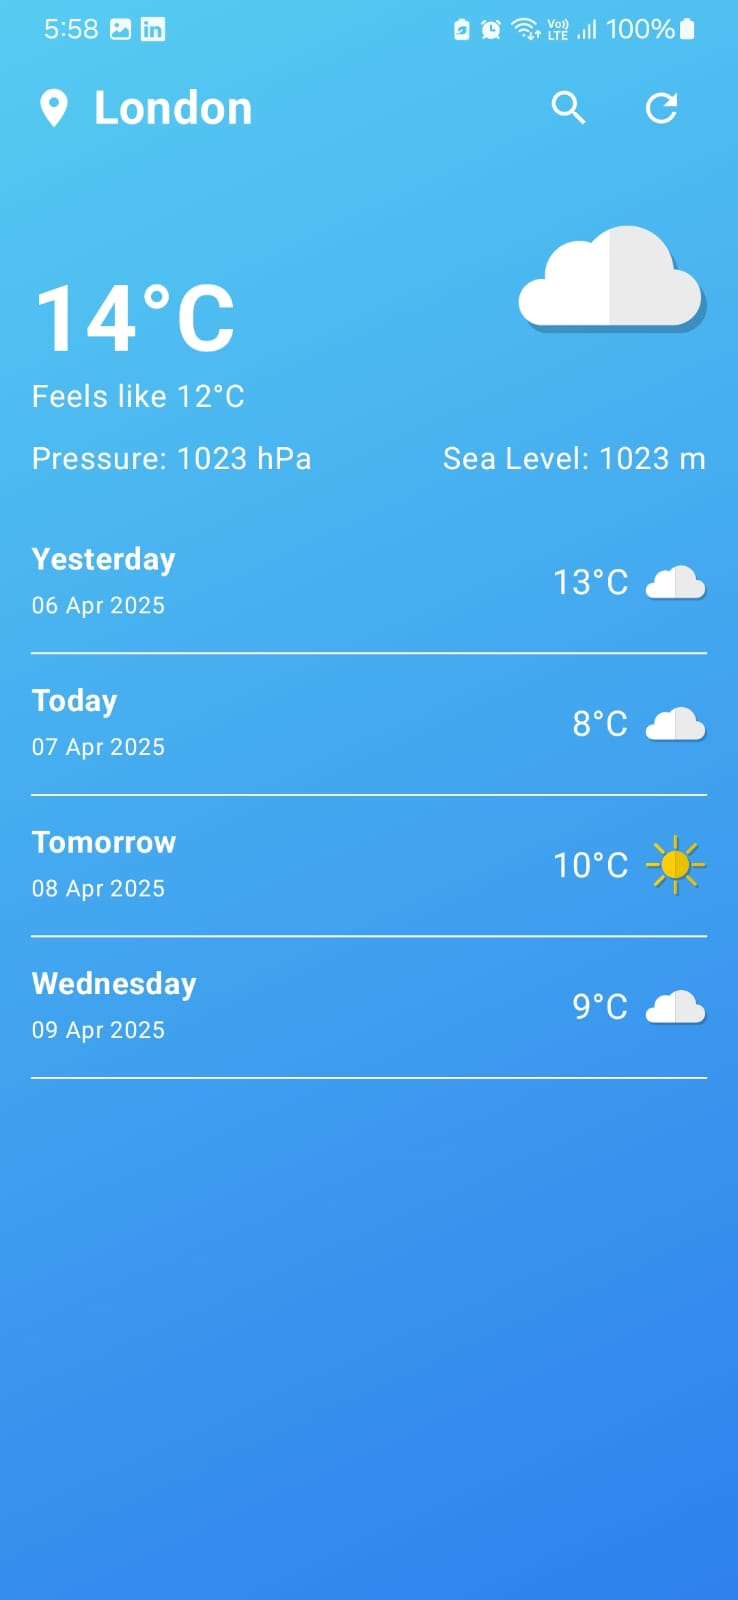
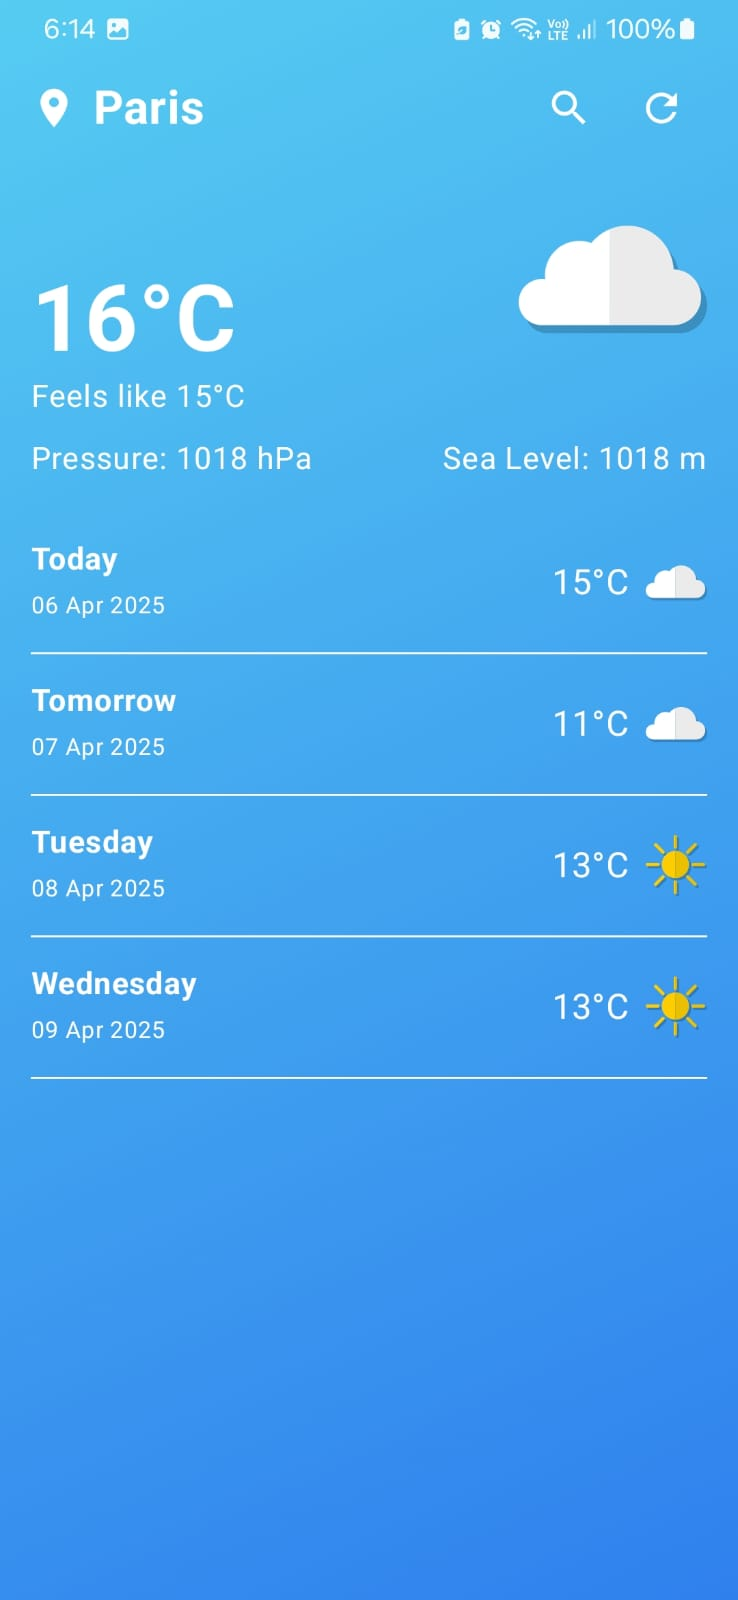
images updated

diff --git a/app/src/main/java/com/weather/skycast/home/data/mapper/WeatherDtoMapper.kt b/app/src/main/java/com/weather/skycast/home/data/mapper/WeatherDtoMapper.kt
@@ -41,9 +41,8 @@ fun List<WeatherItemDto>.toDailyForecast(): List<ForecastItem> {
 
             ForecastItem(
                 dayLabel = when (index) {
-                    0 -> "Yesterday"
-                    1 -> "Today"
-                    2 -> "Tomorrow"
+                    0 -> "Today"
+                    1 -> "Tomorrow"
                     else -> getDayLabel(entry.value.first().dt)
                 },
                 date = entry.key,

diff --git a/app/src/main/java/com/weather/skycast/home/presentation/WeatherScreen.kt b/app/src/main/java/com/weather/skycast/home/presentation/WeatherScreen.kt
@@ -44,7 +44,7 @@ fun WeatherScreen(
         )
         if (state.forecastList.size > 2) {
             Icon(
-                painter = painterResource(id = state.forecastList.get(1).iconRes),
+                painter = painterResource(id = state.forecastList.get(0).iconRes),
                 contentDescription = "Weather Icon",
                 modifier = Modifier
                     .size(98.dp),
